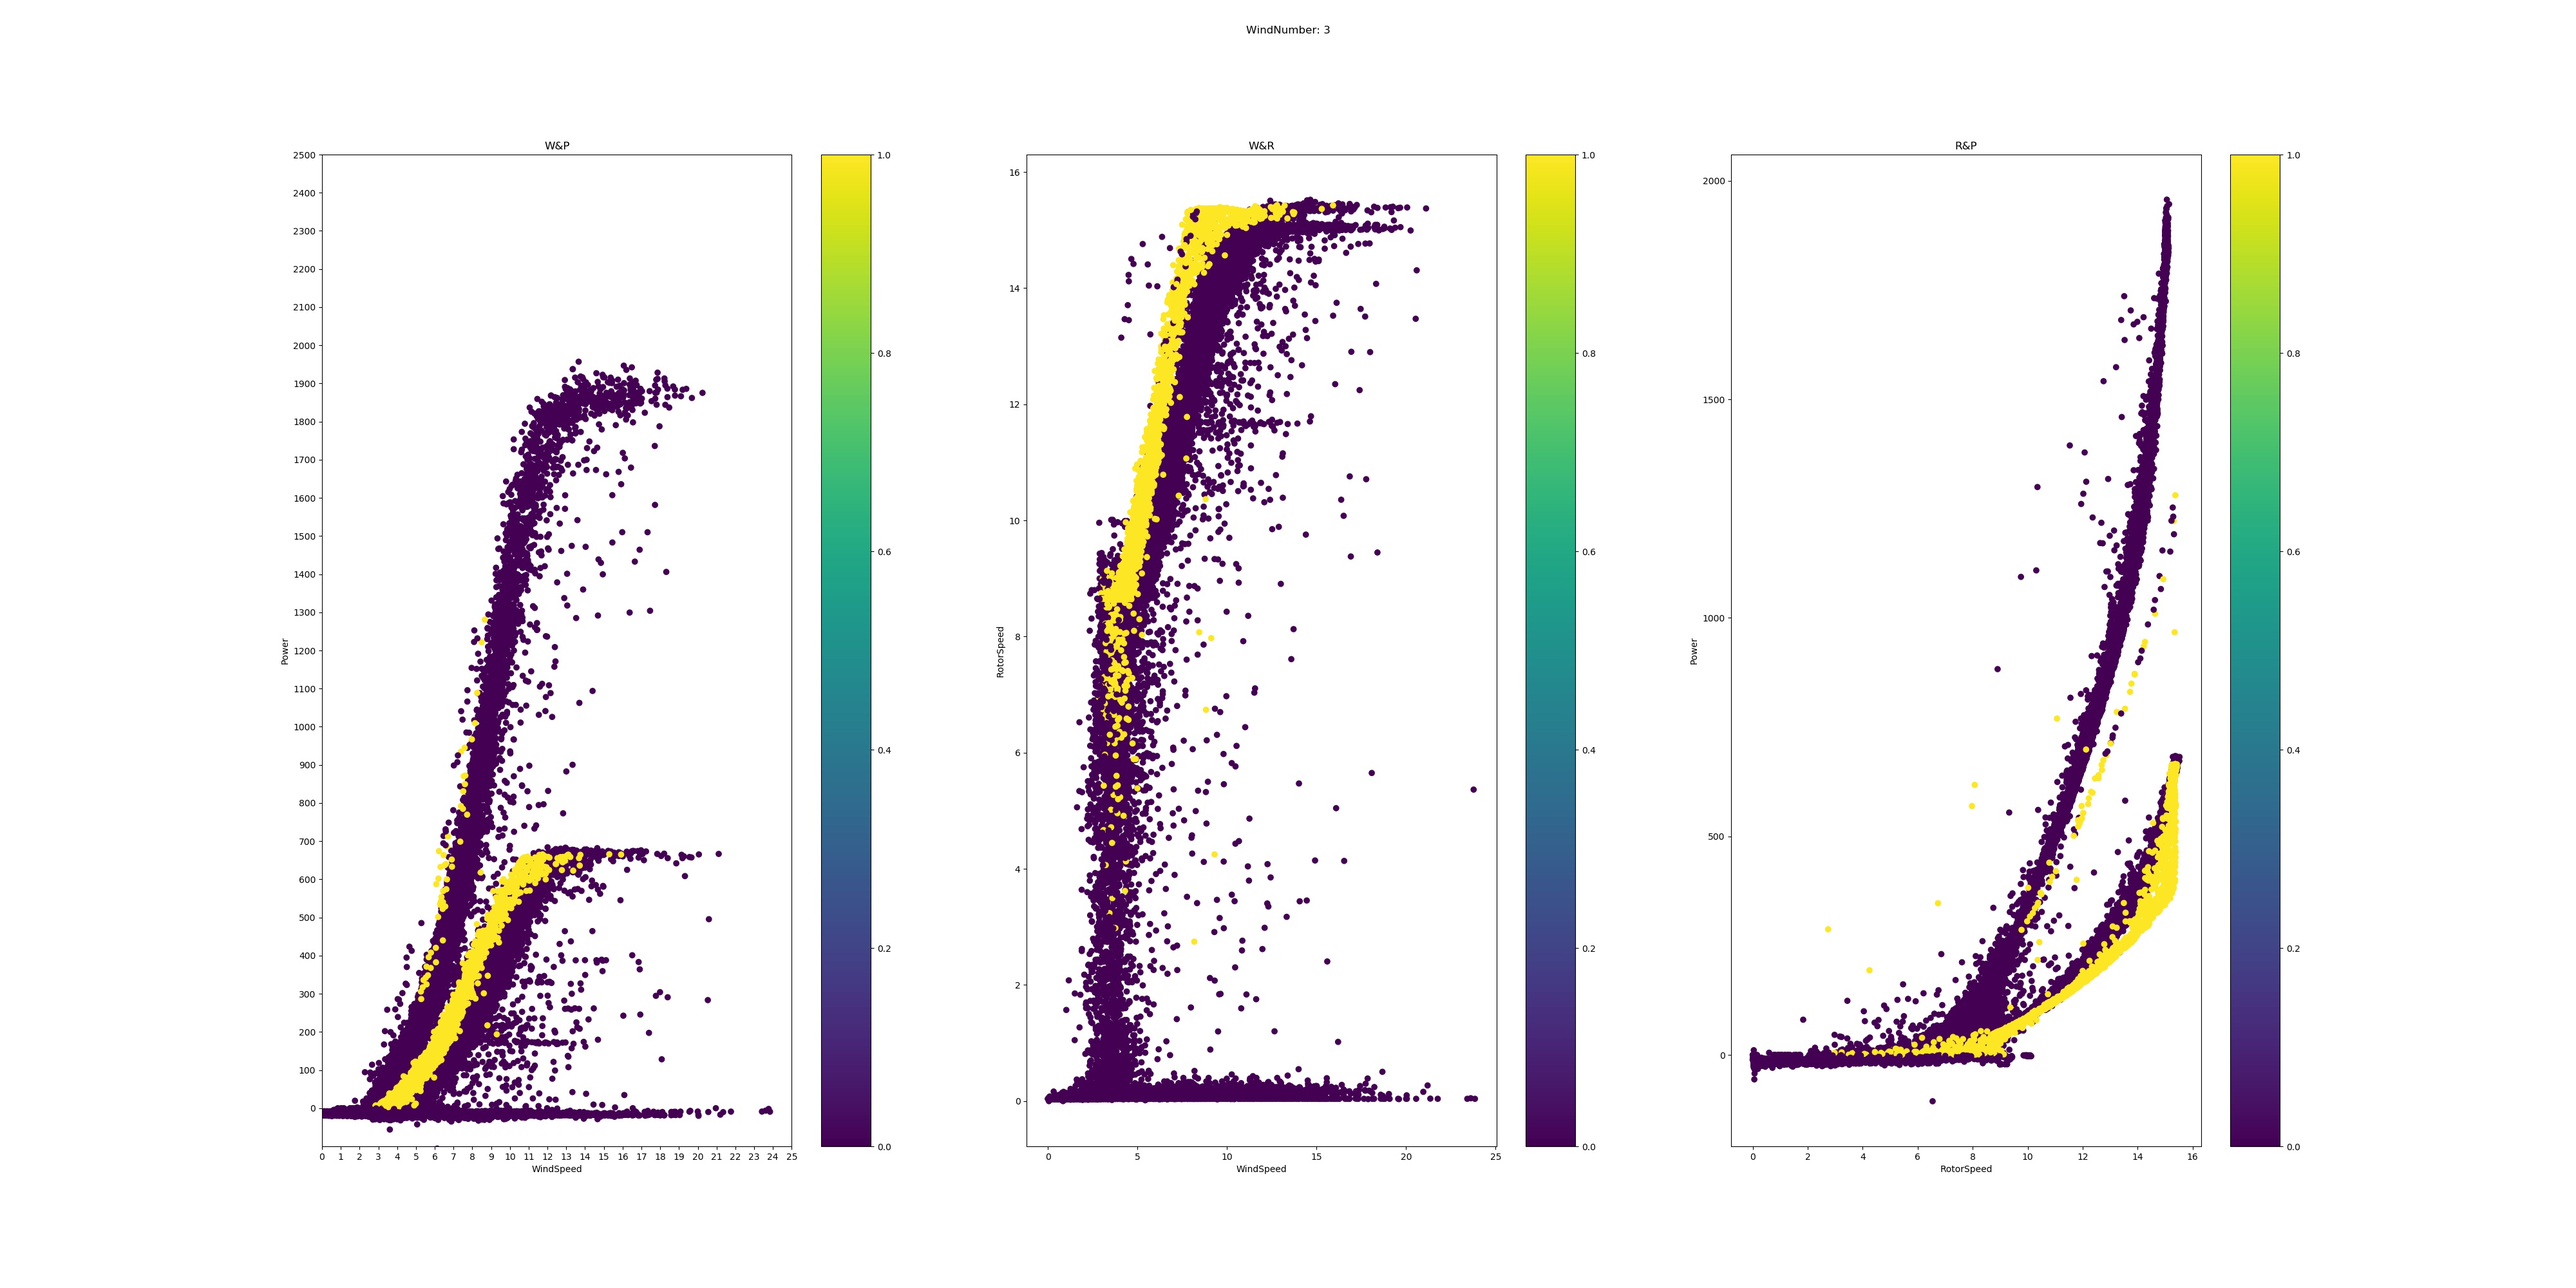
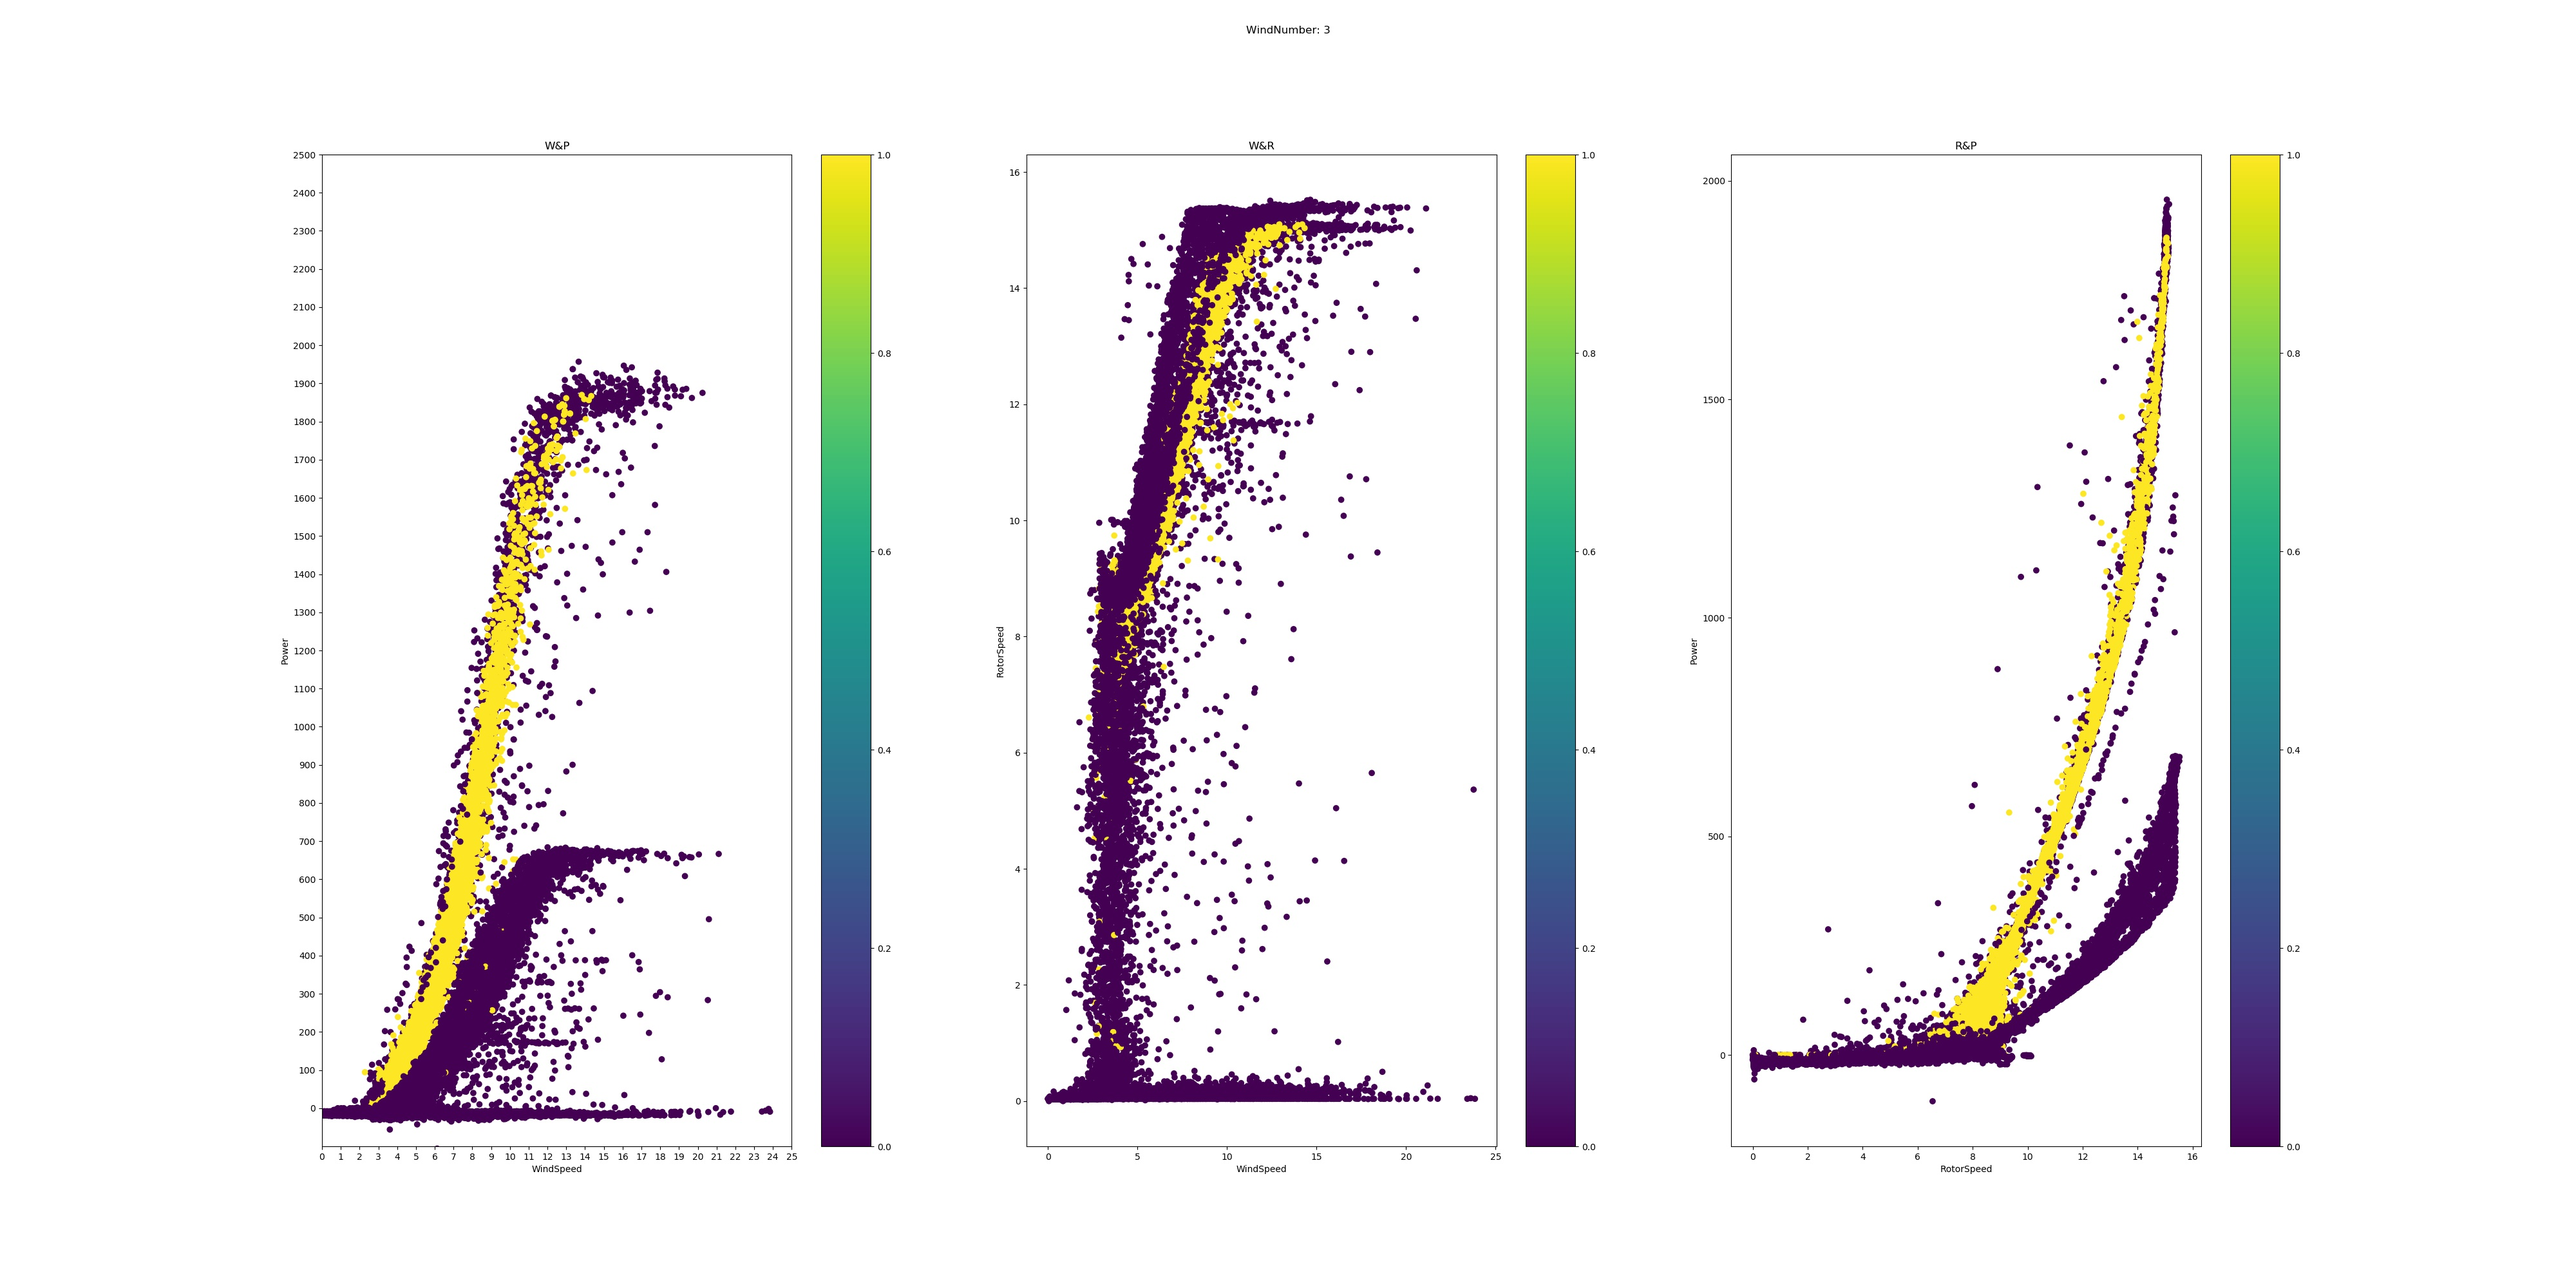
fitcurve ready

diff --git a/fitcurve.py b/fitcurve.py
@@ -7,8 +7,8 @@ from sklearn.cluster import DBSCAN
 from mpl_toolkits.mplot3d import Axes3D
 
 
-DEBUG = False
-DEBUG_WIND_NUMBER = 1
+DEBUG = True
+DEBUG_WIND_NUMBER = 3
 
 
 ###################
@@ -136,10 +136,11 @@ for wind_number, sub_df in df.groupby("WindNumber"):
     print("  Wind Number:", wind_number)
     timestamp = sub_df["Time"].apply(lambda x: int(time.mktime(time.strptime(x, "%Y/%m/%d %H:%M"))))
 
-    # if wind_number == 1:
-    #     selected_condition = sub_df["ts"] > 1.538 * 10**9
-    #     selected_index = sub_df[selected_condition].index
-    #     raw_df.loc[selected_index, "selected"] = 1
+    if wind_number == 3:
+        selected_condition = (sub_df["ts"] > 1.528 * 10**9) & (sub_df["ts"] < 1.535 * 10**9)
+        selected_index = sub_df[selected_condition].index
+        raw_df.loc[selected_index, "selected"] = 1
+        continue
 
     threshold = sub_df["ts"].quantile(0.90)
     selected_condition = sub_df["ts"] > threshold
